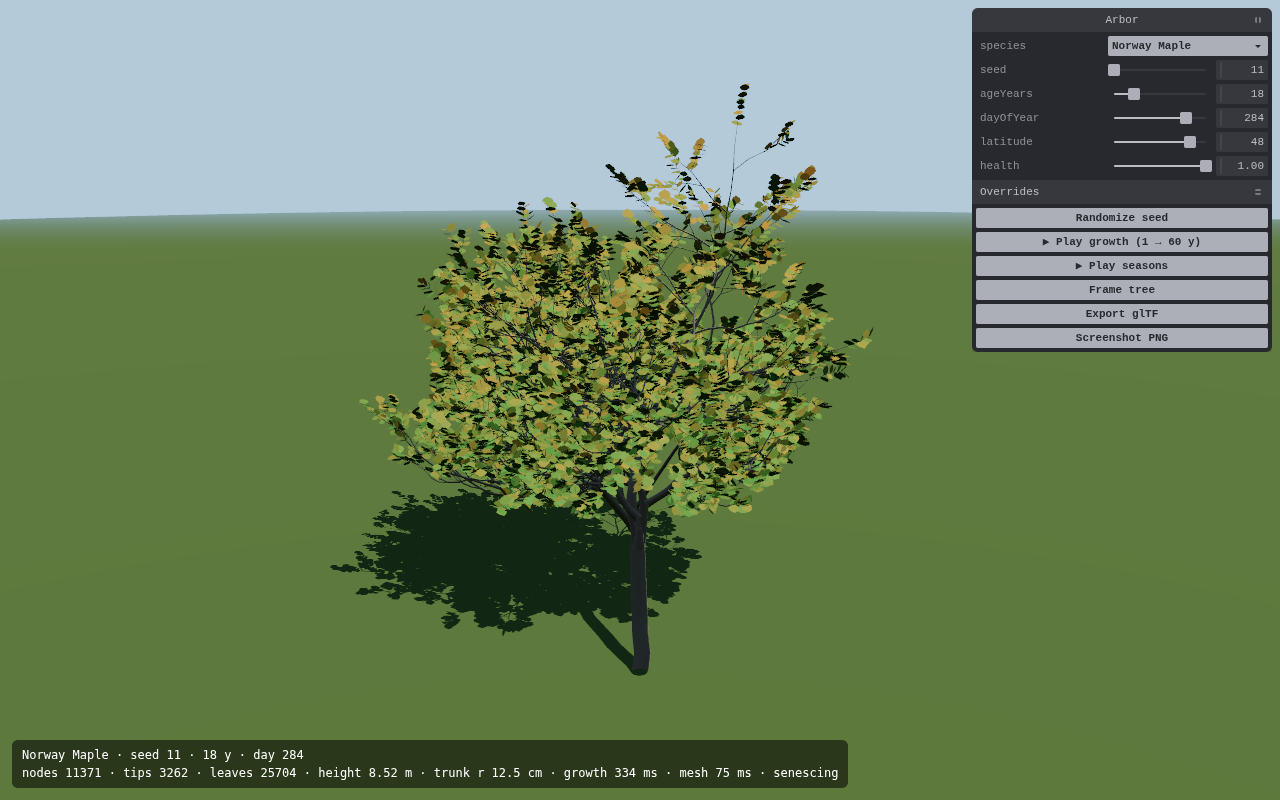
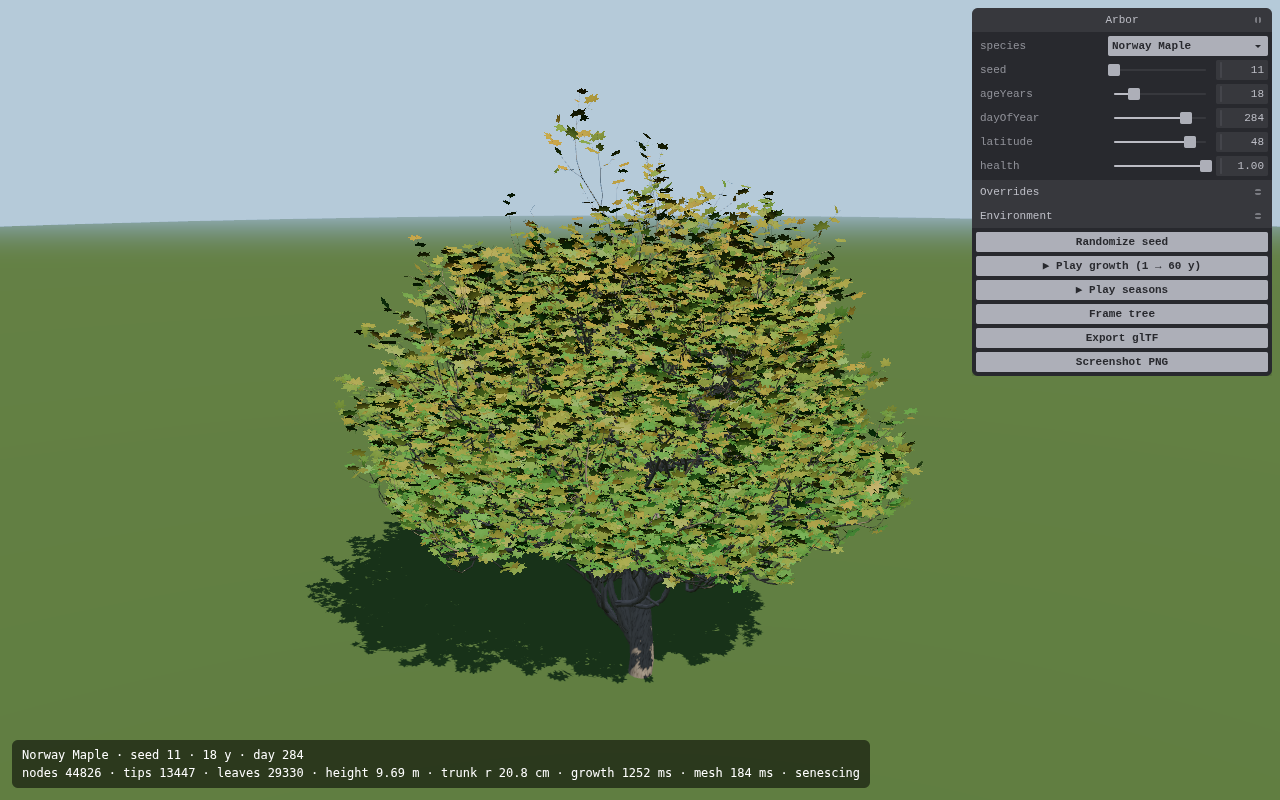
arbor: 叶簇卡片、纵裂树皮改进、按半径的嫩枝色、逐顶点半径；桦树冒烟用例改为变色期；文档与截图更新
Claude-Session: https://claude.ai/code/session_0185mQWy4dSyUPnLR5vKwA3x

diff --git a/arbor/packages/web/src/main.ts b/arbor/packages/web/src/main.ts
@@ -307,7 +307,7 @@ function barkMaterial(sp: SpeciesParams): THREE.MeshStandardMaterial {
   const t0 = performance.now();
   const textures = barkTextures(family, BARK_QUICK_SIZE, maxAnisotropy);
   console.log(`bark textures for ${family}@${BARK_QUICK_SIZE} baked in ${(performance.now() - t0).toFixed(0)} ms`);
-  const material = new THREE.MeshStandardMaterial({ roughness: 1, metalness: 0, normalScale: new THREE.Vector2(1, 1) });
+  const material = new THREE.MeshStandardMaterial({ roughness: 1, metalness: 0, normalScale: new THREE.Vector2(1, 1), vertexColors: true });
   // species tint relative to a neutral grey, applied partially so the family albedo keeps its character
   const tint = sp.bark.color.map((c) => Math.min(1.5, Math.max(0.5, 1 + (c / 0.4 - 1) * 0.6))) as [number, number, number];
   material.color.setRGB(tint[0], tint[1], tint[2], THREE.LinearSRGBColorSpace);
@@ -371,6 +371,21 @@ function setModel(model: PlantModel, reframe: boolean): void {
   bg.setAttribute('normal', new THREE.BufferAttribute(model.branches.normal, 3));
   bg.setAttribute('uv', new THREE.BufferAttribute(model.branches.uv, 2));
   bg.setIndex(new THREE.BufferAttribute(fixWinding(model.branches), 1));
+  // twig vs trunk: vertex colour multiplies the bark texture; thin branches fade to the species twig colour
+  {
+    const rad = model.branches.radius;
+    const col = new Float32Array(rad.length * 3);
+    const twig = sp.bark.twigColor ?? [sp.bark.color[0] * 0.7, sp.bark.color[1] * 0.7, sp.bark.color[2] * 0.7];
+    const r0 = sp.bark.twigRadius ?? 0.01, r1 = r0 * 3;
+    // relative to the tinted bark albedo: 1 = untouched texture, twig = twigColor / barkColor
+    const rel = [twig[0] / Math.max(0.05, sp.bark.color[0]), twig[1] / Math.max(0.05, sp.bark.color[1]), twig[2] / Math.max(0.05, sp.bark.color[2])];
+    for (let k = 0; k < rad.length; k++) {
+      const t = Math.min(1, Math.max(0, (rad[k] - r0) / (r1 - r0)));
+      const u = t * t * (3 - 2 * t);
+      col[k * 3] = rel[0] + (1 - rel[0]) * u; col[k * 3 + 1] = rel[1] + (1 - rel[1]) * u; col[k * 3 + 2] = rel[2] + (1 - rel[2]) * u;
+    }
+    bg.setAttribute('color', new THREE.BufferAttribute(col, 3));
+  }
   branchMesh = new THREE.Mesh(bg, barkMaterial(sp));
   branchMesh.name = 'branches';
   branchMesh.castShadow = branchMesh.receiveShadow = true;

diff --git a/arbor/packages/web/src/leafTexture.ts b/arbor/packages/web/src/leafTexture.ts
@@ -135,13 +135,11 @@ function bakeAlbedo(layout: CardLayout, W: number, H: number): { canvas: HTMLCan
 
   for (const { sil, shade } of layout.parts) {
     ctx.globalCompositeOperation = 'source-over';
-    // petiole (the order-0 vein segment below the lamina)
+    // petiole: the whole order-0 vein in petiole colour; the lamina fill below covers the midrib part
     const midrib = sil.veins.find((v) => v.order === 0);
     if (midrib) {
       ctx.strokeStyle = css(PETIOLE); ctx.lineWidth = midrib.width * 1.15;
-      const ty = midrib.y0 + (midrib.y1 - midrib.y0) * Math.min(1, Math.max(0, (-midrib.y0 + 0.03 * Math.hypot(midrib.x1 - midrib.x0, midrib.y1 - midrib.y0)) / (Math.hypot(midrib.x1 - midrib.x0, midrib.y1 - midrib.y0) || 1)));
-      const tx = midrib.x0 + (midrib.x1 - midrib.x0) * ((ty - midrib.y0) / ((midrib.y1 - midrib.y0) || 1));
-      ctx.beginPath(); ctx.moveTo(midrib.x0, midrib.y0); ctx.lineTo(tx, ty); ctx.stroke();
+      ctx.beginPath(); ctx.moveTo(midrib.x0, midrib.y0); ctx.lineTo(midrib.x1, midrib.y1); ctx.stroke();
     }
     // lamina: flat base, soft radial gradient (edges ~8% darker), per-leaf shade
     tracePolygons(ctx, sil);
@@ -321,7 +319,7 @@ function cardLayout(sp: SpeciesParams, k: number): CardLayout {
   parts.push({ sil: placeSilhouette(base, 0.92 + 0.08 * hashStr(sp.id, 3), 0, 0.04), shade: 1 + (hashStr(sp.id, 19) - 0.5) * 0.12 });
   const polygons = parts.flatMap((p) => p.sil.polygons);
   const veins = parts.flatMap((p) => p.sil.veins);
-  const twigWidth = 0.028;
+  const twigWidth = 0.034;
   const bbox = bboxOf(polygons, [-twigWidth, twigY0, twigWidth, twigY0]);
   return { parts, twig: { x0: 0, y0: twigY0, x1: 0, y1: 0, width: twigWidth }, bbox, veins, polygons };
 }

diff --git a/arbor/packages/core/src/mesh/branches.ts b/arbor/packages/core/src/mesh/branches.ts
@@ -58,7 +58,7 @@ export function buildBranchMesh(sk: Skeleton, opts: BranchMeshOptions = {}): Bra
   const rMax = sk.radius[0] || 1e-3;
   const segOf = (r: number) => Math.max(minSeg, Math.min(maxSeg, Math.round(minSeg + (maxSeg - minSeg) * Math.sqrt(r / rMax))));
 
-  const pos: number[] = [], nrm: number[] = [], uv: number[] = [], idx: number[] = [];
+  const pos: number[] = [], nrm: number[] = [], uv: number[] = [], idx: number[] = [], rad: number[] = [];
   /** ring start index and segment count per node */
   const ringStart = new Int32Array(n).fill(-1);
   const ringSeg = new Int32Array(n);
@@ -78,6 +78,7 @@ export function buildBranchMesh(sk: Skeleton, opts: BranchMeshOptions = {}): Bra
       pos.push(cx + ox * r, cy + oy * r, cz + oz * r);
       nrm.push(ox, oy, oz);
       uv.push((s / seg) * uSpan, v);
+      rad.push(r);
     }
     return start;
   };
@@ -118,9 +119,9 @@ export function buildBranchMesh(sk: Skeleton, opts: BranchMeshOptions = {}): Bra
       const c = pos.length / 3;
       const tx = tan[i * 3], ty = tan[i * 3 + 1], tz = tan[i * 3 + 2];
       pos.push(P[i * 3] + tx * r, P[i * 3 + 1] + ty * r, P[i * 3 + 2] + tz * r);
-      nrm.push(tx, ty, tz); uv.push(0.5, vlen[i] * uvScale + r);
+      nrm.push(tx, ty, tz); uv.push(0.5, vlen[i] * uvScale + r); rad.push(r);
       for (let s = 0; s < seg; s++) idx.push(ringStart[i] + s, ringStart[i] + s + 1, c);
     }
   }
-  return { position: Float32Array.from(pos), normal: Float32Array.from(nrm), uv: Float32Array.from(uv), index: Uint32Array.from(idx) };
+  return { position: Float32Array.from(pos), normal: Float32Array.from(nrm), uv: Float32Array.from(uv), index: Uint32Array.from(idx), radius: Float32Array.from(rad) };
 }

diff --git a/arbor/packages/core/src/types.ts b/arbor/packages/core/src/types.ts
@@ -59,6 +59,10 @@ export interface BarkParams {
   family?: BarkFamily;
   /** Texture repeats per meter along the trunk. */
   scale?: number;
+  /** Colour of young twigs (linear RGB); bark texture fades in above `twigRadius`. Defaults to a darker trunk colour. */
+  twigColor?: [number, number, number];
+  /** Radius (m) below which a branch is rendered as twig; the blend completes at 3× this radius. */
+  twigRadius?: number;
 }
 
 export interface SpeciesParams {
@@ -181,6 +185,8 @@ export interface BranchMesh {
   normal: Float32Array;
   uv: Float32Array;
   index: Uint32Array;
+  /** Branch radius (m) at each vertex; lets renderers blend twig and trunk bark. */
+  radius: Float32Array;
 }
 
 /** Per-leaf instance data. Quaternion as xyzw. */

diff --git a/arbor/packages/web/src/barkTexture.ts b/arbor/packages/web/src/barkTexture.ts
@@ -133,7 +133,7 @@ function generateField(family: BarkFamily, S: number): Field {
       normalStrength = ridged ? 10 : 14;
       const dark: RGB = ridged ? [0.15, 0.13, 0.11] : [0.11, 0.085, 0.065];
       const light: RGB = ridged ? [0.36, 0.33, 0.30] : [0.38, 0.31, 0.24];
-      const stretch = (n: number) => clamp01(0.5 + (n - 0.5) * 2.8); // fbm is concentrated around 0.5
+      const stretch = (n: number) => clamp01(0.5 + (n - 0.5) * 3.4); // fbm is concentrated around 0.5
       const sstep = (a: number, b: number, x: number) => smooth(clamp01((x - a) / (b - a)));
       for (let y = 0, i = 0; y < S; y++) for (let x = 0; x < S; x++, i++) {
         const u = x / S, v = y / S;

diff --git a/docs/plant-gen/00-立项书.md b/docs/plant-gen/00-立项书.md
@@ -89,6 +89,7 @@
 最新冒烟渲染（无头 Chromium，WebGL2 回退路径）见 `img/`：`smoke-oak-25y-summer.png`、`smoke-birch-20y-autumn.png`、`smoke-pine-20y.png`、`smoke-maple-18y-autumn.png`、`smoke-oak-25y-wall.png`（贴墙生长）。数据表见下方「进度日志」。
 
 **已知问题（P0 待办，按优先级）**
+0. 桦树等细枝多的物种在整树视距下仍像「线团」：细枝被栅格化放大且叶片小；需要叶簇更大/更密、远景细枝淡出（LOD）与更强的细枝死亡率（待办 A9）。
 1. 性能：25 年树从零生成约 0.5–1.2 s（单线程 TS，优化后）。年龄与季节滑条为增量（PlantSession：向前只算新增年份，换日期只重建叶片，30–150 ms）。剩余热点是赤松成千末梢芽的锥形感知查询。
 2. 赤松针叶密度仍低于真实（针叶簇为无贴图几何）；材质与 alpha 卡片在 P1。
 3. 叶片仍是无贴图单色卡片；树皮为单色。
@@ -100,7 +101,8 @@
 |---|---|---|---|---|
 | 09-06 上午 | 内核 + 查看器首个可运行版本 | 21k 节点 / 3.2k 末梢 / 1.2 s | 36k / 8.9k / 1.3 s | 17k / 3.7k / 1.9 s，线团状 |
 | 09-06 下午 | 木质自重下垂、分叉偏折、侧枝长度上限、针叶刷几何、增量生长会话、休眠芽感知缓存 | 24k / 4.0k | 29k / 7.0k | 17k / 5.9k，层状轮枝 |
-| 09-06 晚 | 稠密网格标记场、按标记点刷新占用、3 年一结算的下垂、第四物种挪威槭、环境障碍（墙）避让与遮荫 | 60 年整树 11.0 s → 2.7 s | 13.3 s → 2.5 s | 3.9 s → 2.9 s |
+| 09-06 晚 | 稠密网格标记场、按标记点刷新占用、3 年一结算的下垂、第四物种挪威槭、环境障碍（墙）避让与遮荫 |
+| 09-06 深夜 | 外观优先：叶形族生成器（单叶/裂叶/掌状/羽状/针叶）→ 程序化叶片贴图（反照率/alpha/法线）与 3 叶簇卡片；7 族程序化树皮；按半径的嫩枝色；修正枝干绕序（此前树皮始终背光）；枯枝保留；幼年分枝区；物种扩到 12 并加校验脚本 | 60 年整树 11.0 s → 2.7 s | 13.3 s → 2.5 s | 3.9 s → 2.9 s |
 
 ## 9. 决策请求
 

diff --git a/docs/plant-gen/03-P0-待办与验收.md b/docs/plant-gen/03-P0-待办与验收.md
@@ -33,8 +33,8 @@
 | C1 | WebGPU 查看器 + WebGL2 回退，Worker 生成 | ☑ | 无头冒烟通过；真实 WebGPU 浏览器手测通过 |
 | C2 | 参数面板三层（意图/植物学/覆盖） | ◐ | 意图层 6 项 + 植物学层 ≥ 20 项可调 |
 | C3 | glTF 导出（含实例化叶片） | ☑ | Blender / UE 5.7 / Unity 6 各导入一次并截图 |
-| C4a | 程序化叶片贴图：叶形族 → 轮廓 + 叶脉 → 反照率/alpha/法线 | ◐ | 栎裂叶、槭掌状、桦卵形锯齿、白蜡羽状复叶在渲染中可辨 |
-| C4b | 程序化树皮：7 个族的平铺高度场 → 反照率/法线/粗糙度 | ◐ | 桦皮白底黑横纹、松皮橙褐鳞片、栎皮纵裂可辨 |
+| C4a | 程序化叶片贴图：叶形族 → 轮廓 + 叶脉 → 反照率/alpha/法线，3 叶簇卡片 | ☑ 首版 | 栎裂叶、槭掌状、桦卵形锯齿、白蜡羽状复叶在渲染中可辨 |
+| C4b | 程序化树皮：7 个族的平铺高度场 → 反照率/法线/粗糙度；按半径混入嫩枝色 | ☑ 首版（纵裂族的沟纹边缘仍偏软） | 桦皮白底黑横纹、松皮橙褐鳞片、栎皮纵裂可辨 |
 | C4c | 双面叶 BSDF（透射 + 薄层次表面）TSL 材质 | ☐ | 逆光下叶片透光可见；WebGL2 回退不报错 |
 | C5 | 层级顶点风（Pivot Painter 兼容数据导出） | ☐ | 查看器中风动；UE 导入后 Pivot Painter 材质可用 |
 | C6 | LOD 链 + 八面体 impostor | ☐ | 1000 株实例 60 fps（中端笔记本） |
